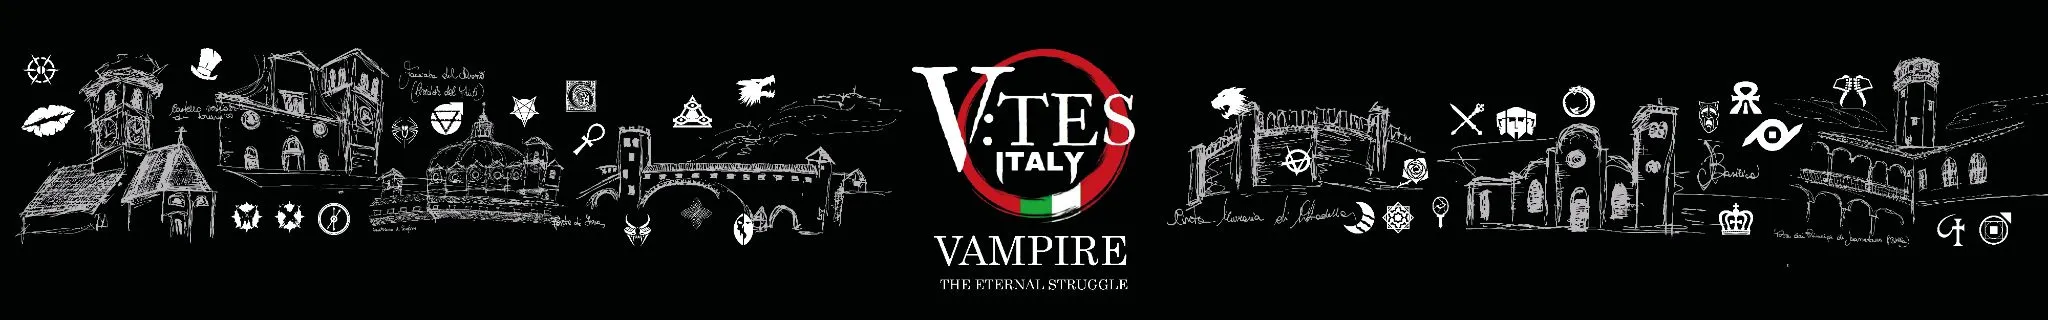
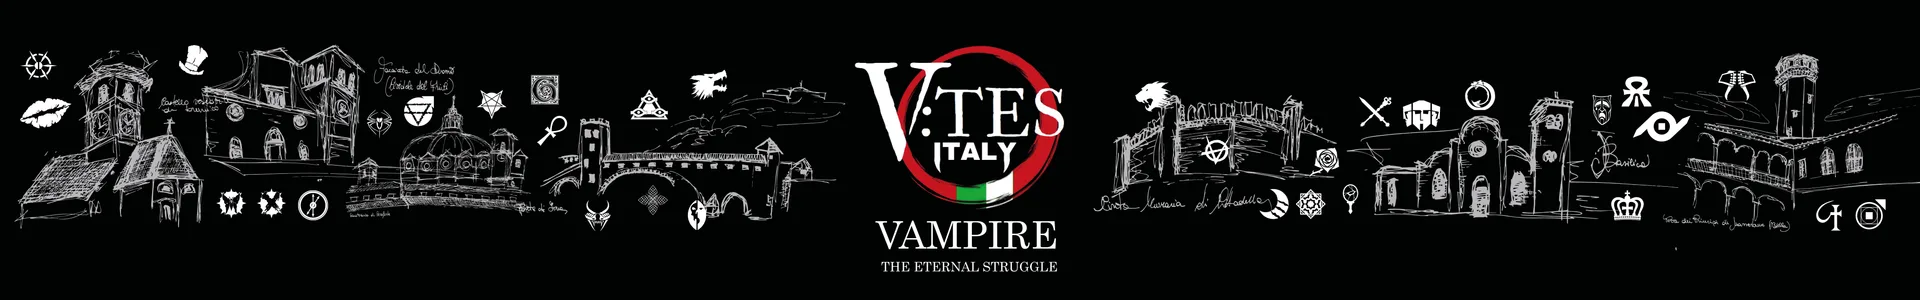
Fix prose styles, header HD, contest/WoS content, dev port 4322, CSS var fix

diff --git a/src/styles/prose.css b/src/styles/prose.css
@@ -1,27 +1,40 @@
 /* Shared prose styles for markdown content */
-.prose :global(p) { line-height: 1.7; margin-bottom: 16px; text-align: justify; }
-.prose :global(h1) { font-size: clamp(1.4rem, 4vw, 2rem); margin: 32px 0 16px; }
-.prose :global(h2) { font-size: clamp(1.2rem, 3.5vw, 1.5rem); margin: 28px 0 12px; }
-.prose :global(h3) { font-size: clamp(1rem, 3vw, 1.2rem); margin: 24px 0 8px; }
-.prose :global(ul), .prose :global(ol) { padding-left: 20px; margin-bottom: 16px; }
-.prose :global(li) { margin-bottom: 6px; line-height: 1.6; }
-.prose :global(blockquote) {
+.prose p { line-height: 1.7; margin-bottom: 16px; text-align: justify; }
+.prose h1 { font-size: clamp(1.4rem, 4vw, 2rem); margin: 32px 0 16px; }
+.prose h2 { font-size: clamp(1.2rem, 3.5vw, 1.5rem); margin: 28px 0 12px; }
+.prose h3 { font-size: clamp(1rem, 3vw, 1.2rem); margin: 24px 0 8px; }
+.prose ul, .prose ol { padding-left: 20px; margin-bottom: 16px; }
+.prose li { margin-bottom: 6px; line-height: 1.6; }
+.prose blockquote {
   border-left: 3px solid var(--color-gold); padding-left: 16px;
   color: var(--color-muted); font-style: italic; margin: 16px 0;
 }
-.prose :global(hr) { border: none; border-top: 1px solid rgba(139,26,43,0.15); margin: 24px 0; }
-.prose :global(img) { max-width: 100%; border-radius: var(--radius); margin: 16px 0; }
-.prose :global(a) { color: var(--color-accent-1); }
-.prose :global(a:hover) { color: var(--color-accent-2); }
-.prose :global(strong) { font-weight: 600; }
-.prose :global(.table-wrap) { overflow-x: auto; -webkit-overflow-scrolling: touch; margin: 16px 0; }
-.prose :global(table) { width: 100%; border-collapse: collapse; margin: 16px 0; }
-.prose :global(.table-wrap) > :global(table) { margin: 0; }
-.prose :global(th), .prose :global(td) {
+.prose hr { border: none; border-top: 1px solid rgba(139,26,43,0.15); margin: 24px 0; }
+.prose img { max-width: 100%; border-radius: var(--radius); margin: 16px 0; }
+.prose a { color: var(--color-accent-1); }
+.prose a:hover { color: var(--color-accent-2); }
+.prose strong { font-weight: 600; }
+.prose .table-wrap { overflow-x: auto; -webkit-overflow-scrolling: touch; margin: 16px 0; }
+.prose table { width: 100%; border-collapse: collapse; margin: 16px 0; }
+.prose .table-wrap > table { margin: 0; }
+.prose th, .prose td {
   padding: 8px 12px; border: 1px solid var(--color-border); text-align: left;
 }
-.prose :global(th) { font-weight: 600; background-color: var(--color-surface); }
+.prose th { font-weight: 600; background-color: var(--color-surface); }
 
 @media (max-width: 544px) {
-  .prose :global(th), .prose :global(td) { padding: 6px 8px; font-size: 0.8rem; }
+  .prose th, .prose td { padding: 6px 8px; font-size: 0.8rem; }
 }
+
+.prose .winner-header {
+  display: flex;
+  align-items: center;
+  justify-content: center;
+  border: 2px solid rgba(201, 168, 76, 0.4);
+  border-radius: 8px;
+  padding: 8px;
+  background: rgba(201, 168, 76, 0.06);
+  margin: 16px 0;
+}
+.prose .winner-header p { margin: 0; }
+.prose .winner-header img { margin: 0; border-radius: 4px; }

diff --git a/src/content/blog/week-of-sabbat-2025.md b/src/content/blog/week-of-sabbat-2025.md
@@ -23,15 +23,17 @@ linksAfter:
 locale: it
 ---
 
-La nuova espansione Sabbat segna un momento speciale: **l'Italia intera si unisce** per celebrare il gioco che amiamo. Quattro mazzi, quattro vie, infinite storie che prendono vita ai tavoli di club e negozi in ogni città. Non è solo una competizione, ma una settimana di **incontro, scoperta e divertimento condiviso**, in puro spirito cainita.
+La nuova espansione Sabbat segna un momento speciale: **l'Italia intera si unisce** per celebrare il gioco che amiamo. Quattro mazzi, quattro vie, infinite storie che prendono vita ai tavoli di club e negozi in ogni città.
+
+Non è solo una competizione, ma una settimana di **incontro, scoperta e divertimento condiviso**, in puro spirito cainita.
 
 > *"Per una settimana, tutta l'Italia gioca come un'unica cotérie"*
 
----
-
 ## Cos'è
 
-La Week of Sabbat è l'evento nazionale dedicato al lancio dei nuovi mazzi Sabbat. Dal **18 al 26 ottobre**, i giocatori di tutta Italia si sfidano in formato **Sealed**, aprendo e giocando mazzi prerelease in contemporanea. È un'occasione per provare le nuove carte, incontrare altri cainiti e partecipare a una classifica condivisa a livello nazionale, in un clima di divertimento e scoperta.
+La Week of Sabbat è l'evento nazionale dedicato al lancio dei nuovi mazzi Sabbat. Dal **18 al 26 ottobre**, i giocatori di tutta Italia si sfidano in formato **Sealed**, aprendo e giocando mazzi prerelease in contemporanea.
+
+È un'occasione per provare le nuove carte, incontrare altri cainiti e partecipare a una classifica condivisa a livello nazionale, in un clima di divertimento e scoperta.
 
 ## Come funziona
 
@@ -42,10 +44,7 @@ La Week of Sabbat è l'evento nazionale dedicato al lancio dei nuovi mazzi Sabba
 
 ## Punteggi e classifiche
 
-Durante la Week of Sabbat i giocatori ottengono punti attraverso:
-
-- Victory Points (VP)
-- Game Wins (GW)
+Durante la Week of Sabbat i giocatori ottengono punti attraverso Victory Points (VP) e Game Wins (GW).
 
 I risultati confluiscono in due livelli di classifica:
 
@@ -56,4 +55,6 @@ Dopo tre round, il totale dei punti determina il vincitore locale. Non è previs
 
 ## Mazzo e ricordo
 
-Al termine dell'evento, ogni partecipante porta a casa il proprio mazzo prerelease Sabbat come ricordo della Week of Sabbat. Tratta le carte con cura: fanno parte del kit ufficiale dell'evento e meritano rispetto… in puro stile Sabbat.
+Al termine dell'evento, ogni partecipante porta a casa il proprio mazzo prerelease Sabbat come ricordo della Week of Sabbat.
+
+Tratta le carte con cura: fanno parte del kit ufficiale dell'evento e meritano rispetto… in puro stile Sabbat.

diff --git a/src/content/blog/week-of-sabbat-2025-en.md b/src/content/blog/week-of-sabbat-2025-en.md
@@ -17,15 +17,17 @@ linksAfter:
     locale: en
 ---
 
-The new Sabbat expansion marks a special moment: **all of Italy unites** to celebrate the game we love. Four decks, four paths, endless stories coming to life at club and game store tables in every city. Not just competition, but a week of **gathering, discovery and shared fun**, in true Cainite spirit.
+The new Sabbat expansion marks a special moment: **all of Italy unites** to celebrate the game we love. Four decks, four paths, endless stories coming to life at club and game store tables in every city.
+
+Not just competition, but a week of **gathering, discovery and shared fun**, in true Cainite spirit.
 
 > *"For one week, all of Italy plays as a single coterie"*
 
----
-
 ## What is it
 
-The Week of Sabbat is the national event dedicated to the launch of the new Sabbat decks. From **October 18 to 26**, players across Italy compete in **Sealed format**, opening and playing prerelease decks simultaneously. An opportunity to try new cards, meet other Cainites, and participate in a shared national ranking in a fun atmosphere.
+The Week of Sabbat is the national event dedicated to the launch of the new Sabbat decks. From **October 18 to 26**, players across Italy compete in **Sealed format**, opening and playing prerelease decks simultaneously.
+
+An opportunity to try new cards, meet other Cainites, and participate in a shared national ranking in a fun atmosphere.
 
 ## How it works
 
@@ -36,10 +38,7 @@ The Week of Sabbat is the national event dedicated to the launch of the new Sabb
 
 ## Scores and standings
 
-During the Week of Sabbat, players earn points through:
-
-- Victory Points (VP)
-- Game Wins (GW)
+During the Week of Sabbat, players earn points through Victory Points (VP) and Game Wins (GW).
 
 Results feed into two levels of standings:
 
@@ -50,5 +49,7 @@ After three rounds, total points determine the local winner. There is no final: 
 
 ## Deck and keepsake
 
-At the end of the event, each participant takes home their Sabbat prerelease deck as a memento of the Week of Sabbat. Treat the cards with care: they are part of the official event kit and deserve respect… in true Sabbat style.
+At the end of the event, each participant takes home their Sabbat prerelease deck as a memento of the Week of Sabbat.
+
+Treat the cards with care: they are part of the official event kit and deserve respect… in true Sabbat style.
 

diff --git a/src/content/blog/contest-decapitate-ridisegniamo-lheader-di-vtes-italy.md b/src/content/blog/contest-decapitate-ridisegniamo-lheader-di-vtes-italy.md
@@ -1,5 +1,5 @@
 ---
-title: "Contest Decapitate!"
+title: "Contest: Decapitate!"
 date: 2025-12-08
 category: "comunita"
 tags: ["italia", "contest"]
@@ -29,8 +29,14 @@ locale: it
 
 ---
 
-## Vincitrice: Eleonora Basso
+## Il contest si è concluso!
 
-Complimenti a **Eleonora Basso**, la cui proposta è stata selezionata come nuovo header ufficiale del sito VTES Italy!
+Ecco il nuovo header ufficiale di VTES Italy: un panorama che unisce i monumenti delle città italiane dove si gioca a VTES, costellato di simboli di clan nascosti fra le architetture, con il logo della community al centro. Un'immagine che racconta il viaggio del gioco attraverso l'Italia.
 
-![Nuovo header di VTES Italy](/images/headers/header-home.webp)
+<div class="winner-header">
+
+<img src="/images/headers/header-home.webp" srcset="/images/headers/header-home.webp 1x, /images/headers/header-home-2x.webp 2x" alt="Nuovo header di VTES Italy" loading="lazy" decoding="async" />
+
+</div>
+
+Complimenti a **Eleonora**, autrice della proposta vincitrice!

diff --git a/src/content/blog/contest-decapitate-ridisegniamo-lheader-di-vtes-italy-en.md b/src/content/blog/contest-decapitate-ridisegniamo-lheader-di-vtes-italy-en.md
@@ -1,5 +1,5 @@
 ---
-title: "Contest Decapitate!"
+title: "Contest: Decapitate!"
 date: 2025-12-08
 category: "comunita"
 tags: ["italia", "contest"]
@@ -29,8 +29,14 @@ locale: "en"
 
 ---
 
-## Winner: Eleonora Basso
+## The contest is over!
 
-Congratulations to **Eleonora Basso**, whose proposal was selected as the new official header for the VTES Italy website!
+Here is the new official VTES Italy header: a panorama bringing together the landmarks of Italian cities where VTES is played, dotted with clan symbols hidden among the architecture, with the community logo at the centre. An image that tells the story of the game's journey across Italy.
 
-![New VTES Italy header](/images/headers/header-home.webp)
+<div class="winner-header">
+
+<img src="/images/headers/header-home.webp" srcset="/images/headers/header-home.webp 1x, /images/headers/header-home-2x.webp 2x" alt="New VTES Italy header" loading="lazy" decoding="async" />
+
+</div>
+
+Congratulations to **Eleonora**, author of the winning proposal!
